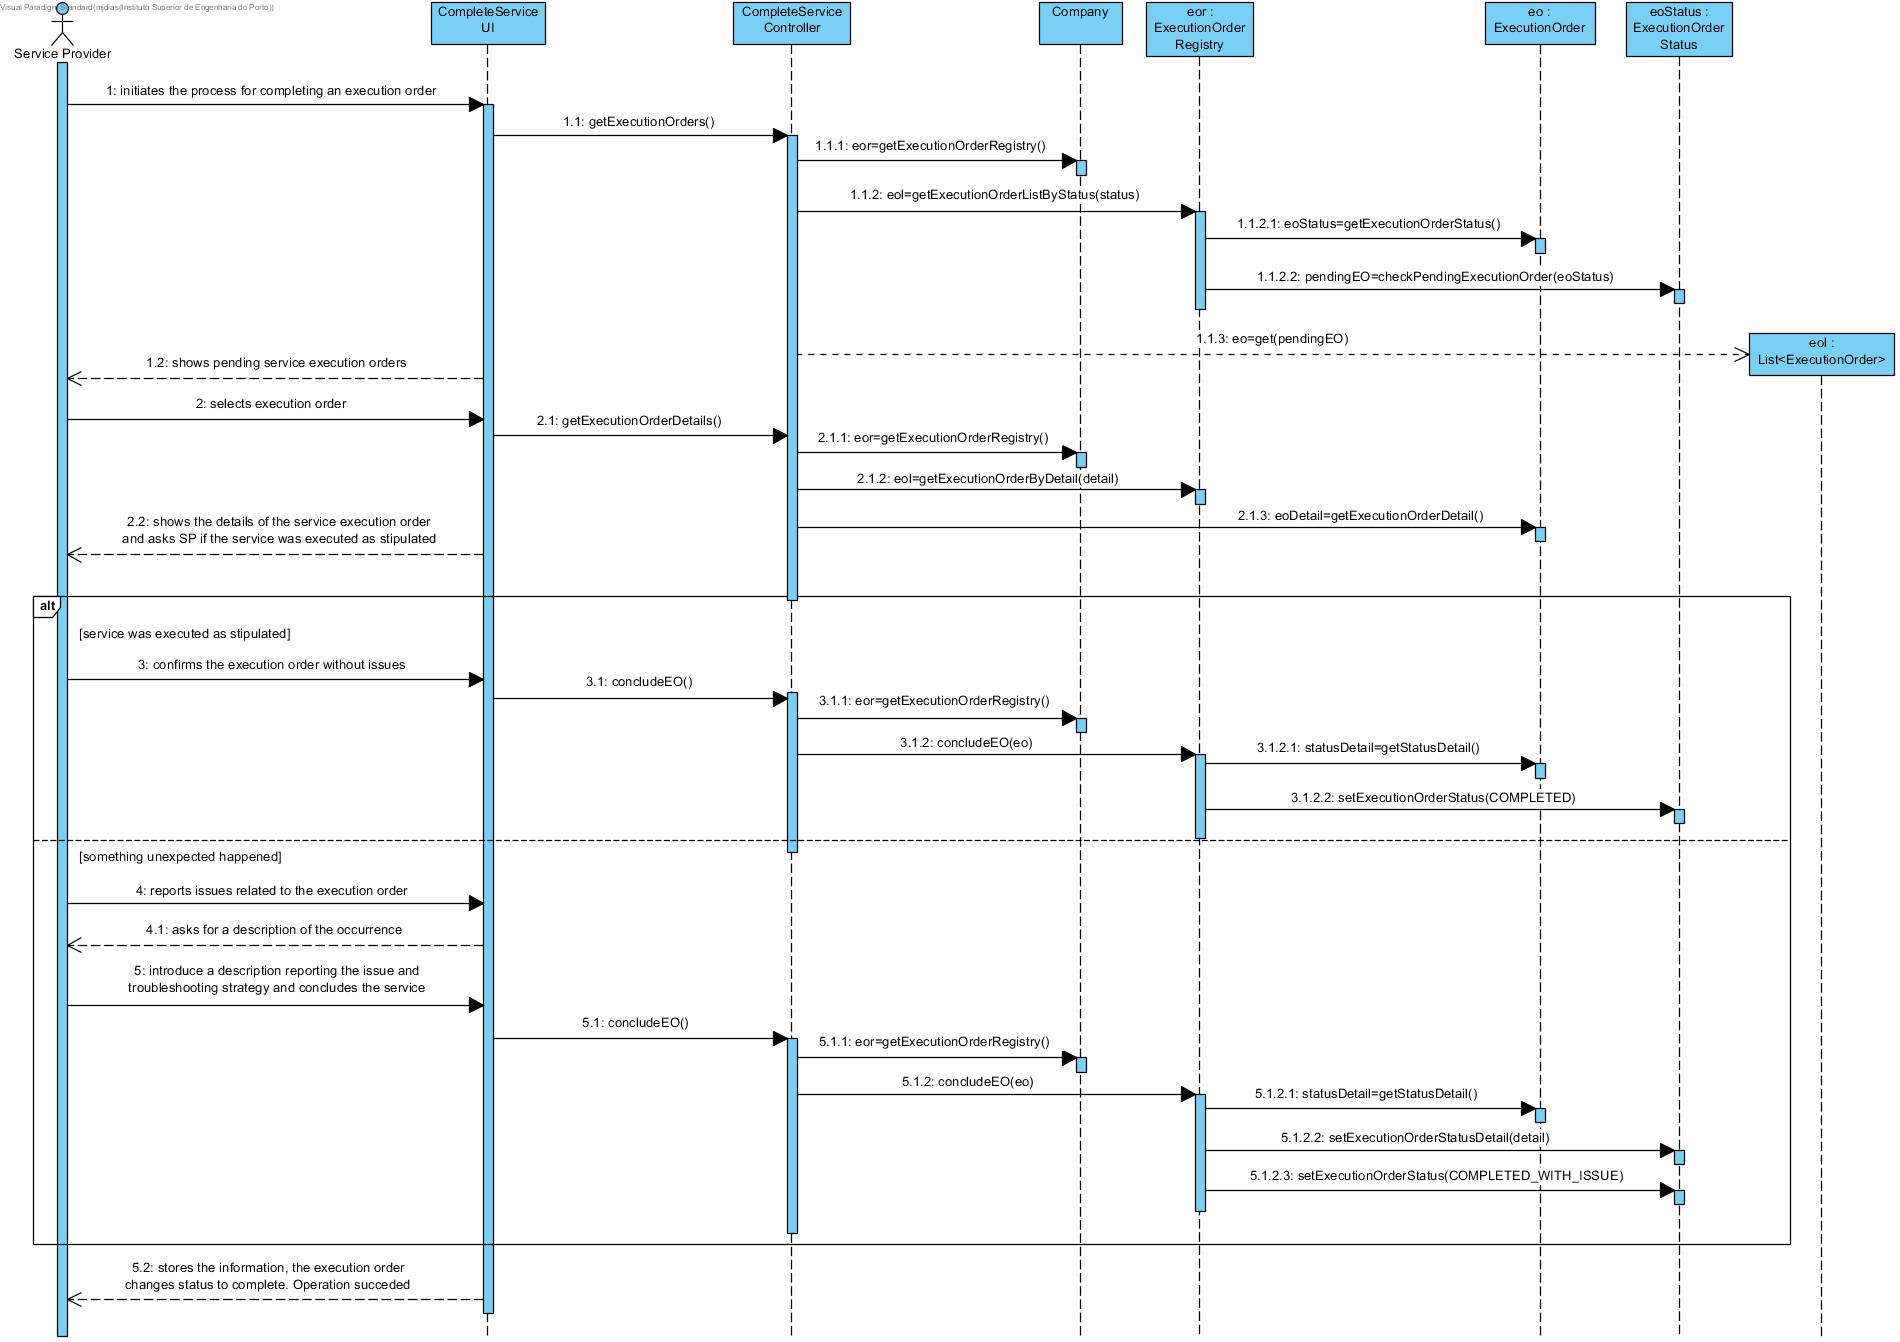
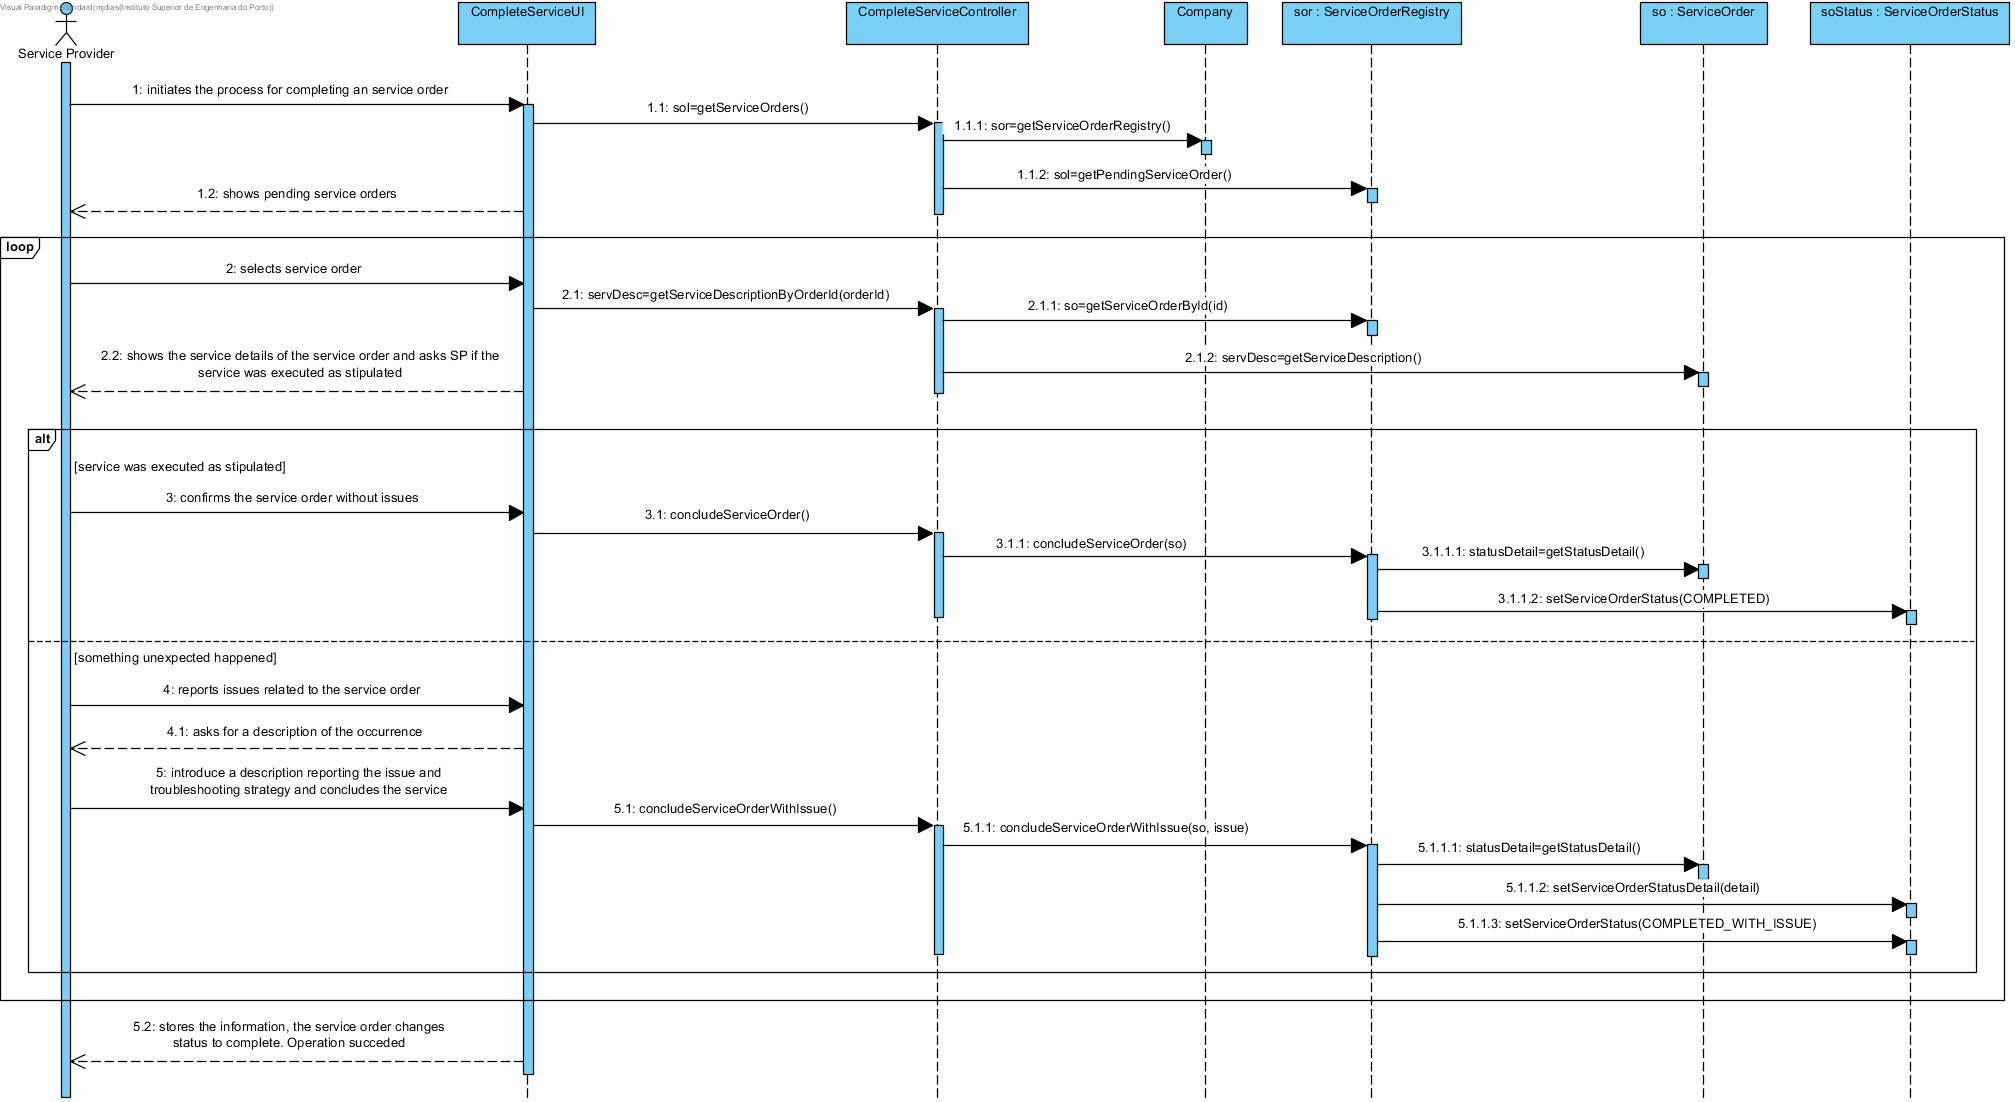
Changed ExecutionOrder for ServiceOrder + add loop in SD and SSD [UC-13][Design+UseCases]

diff --git a/Design/UC13_CompleteService.md b/Design/UC13_CompleteService.md
@@ -3,22 +3,23 @@
 
 | Main Flow                                                                                        | Question: Which Class...                                      | Answer                                       | Justification                                                                                                         |
 |:-------------------------------------------------------------------------------------------------------|:------------------------------------------------------------|:-----------------------------------------------|:---------------------------------------------------------------------------------------------------------------------|
-|1. The Service Provider (SP) initiates the process for completing an execution order.|...interacts with the SP?|CompleteServiceUI|Pure Fabrication|
+|1. The Service Provider (SP) initiates the process for completing a service order.|...interacts with the SP?|CompleteServiceUI|Pure Fabrication|
 ||...coordinates the UC?|CompleteServiceController|Controller|
-|2. The system shows pending service execution orders and requests to select one.|...knows the execution orders?|Company|IE - Information Expert|
-||...has the execution orders?|ExecutionOrderRegistry| HC + LC |
-||...knows the class ExecutionOrderRegistry?|Company| HC + LC |
-||...knows the status of execution orders?|ExecutionOrder|IE|
-||...knows the service description of execution orders?|ExecutionOrder|IE|
+|2. The system shows pending service orders and requests to select one.|...knows the service orders?|Company|IE - Information Expert|
+||...has the service orders?|ServiceOrderRegistry| HC + LC |
+||...knows the class ServiceOrderRegistry?|Company| HC + LC |
+||...knows the status of service orders?|ServiceOrder|IE|
+||...knows the service description of service orders?|ServiceOrder|IE|
 |3. The Service Provider selects one.||||
-|4. The system shows service details of the execution order and asks SP if the service was executed as stipulated.||||
-||...knows the service details in the execution orders?|ExecutionOrder|IE|
+|4. The system shows service details of the service order and asks SP if the service was executed as stipulated.||||
+||...knows the service details in the service orders?|ServiceOrder|IE|
 |5. The SP can confirm or report any occurrence.||||
-|6. The service was executed as stipulated, the SP concludes it.|...is responsible for saving the new status of the execution order?|ExecutionOrderStatus|IE|
+|6. The service was executed as stipulated, the SP concludes it.|...is responsible for saving the new status of the service order?|ServiceOrderStatus|IE|
 |7. Something unexpected happened. The system asks for a description of that occurrence.||||
-|8. The Service Provider introduce a description reporting the issue and troubleshooting strategy and concludes the service.|...is responsible for saving the new status of the execution order?|ExecutionOrderStatus|IE|
-||...is responsible for saving the status detail of the execution order?|ExecutionOrderStatus|IE|
-|9. The system stores the information, the execution order changes status to complete and informs the SP of the success of the operation.||||
+|8. The Service Provider introduce a description reporting the issue and troubleshooting strategy and concludes the service.|...is responsible for saving the new status of the service order?|ServiceOrderStatus|IE|
+||...is responsible for saving the status detail of the service order?|ServiceOrderStatus|IE|
+|9. Steps 3 to 8 are repeated until all the required service orders are concluded.||||
+|10. The system stores the information, the service order changes status to complete and informs the SP of the success of the operation.||||
 
 ## Systematization ##
 
@@ -26,20 +27,20 @@
 
  * Company  
  * ServiceProvider  
- * ExecutionOrder  
- * ExecutionOrderStatus  
+ * ServiceOrder  
+ * ServiceOrderStatus  
 
 
  Other software classes (i.e. Pure Fabrication) identified:  
 
  * CompleteServiceUI  
  * CompleteServiceController  
- * ExecutionOrderRegistry  
+ * ServiceOrderRegistry  
 
 
 ##	Sequence Diagram
 
-![SD_UC13_v2.png](SD_UC13_v2.png)
+![SD_UC13.png](SD_UC13.png)
 
 ##	Class Diagram
 

diff --git a/UseCases/UC13_CompleteService.md b/UseCases/UC13_CompleteService.md
@@ -2,7 +2,7 @@
 
 ## Brief Description
 
-The Service Provider (SP) initiates the process for completing an execution order. The system shows pending service execution orders and requests to select one. The Service Provider selects one. The system shows service details of the execution order and asks SP if the service was executed as stipulated. The SP can confirm or report any occurrence. If the service was executed as stipulated, the SP concludes it. If something unexpected happened, the system asks for a description of that occurrence. The Service Provider introduce a description reporting the issue and troubleshooting strategy and concludes the service. The system stores the information and the execution order changes status to complete.
+The Service Provider (SP) initiates the process for completing a service order. The system shows pending service orders and requests to select one. The Service Provider selects one. The system shows service details of the service order and asks SP if the service was executed as stipulated. The SP can confirm or report any occurrence. If the service was executed as stipulated, the SP concludes it. If something unexpected happened, the system asks for a description of that occurrence. The Service Provider introduce a description reporting the issue and troubleshooting strategy and concludes the service. The Service Provider repeats this task until all the required service orders are concluded. The system stores the information and the service order changes status to complete.
 
 ## SSD
 ![SSD_UC13.png](SSD_UC13.png)
@@ -14,30 +14,31 @@ The Service Provider (SP) initiates the process for completing an execution orde
 Service Provider
 
 ### Stakeholders and purposes
-* **Service Provider:** Service Provider is interested in completing the execution of service orders assigned to him
-* **Company:** Company is interested in knowing the status of the execution orders
+* **Service Provider:** Service Provider is interested in completing the service of service orders assigned to him
+* **Company:** Company is interested in knowing the status of the service orders
 
 ### Preconditions
-Existence of pending execution order
+Existence of pending service order
 
 ### Postconditions
 
 
 ## Main Success scenario (or basic flow)
 1. The Service Provider (SP) initiates the process for completing a service order.
-2. The system shows pending service execution orders and requests to select one.
+2. The system shows pending service orders and requests to select one.
 3. The Service Provider selects one.
-4. The system shows service details of the execution order and asks SP if the service was executed as stipulated.
+4. The system shows service details of the service order and asks SP if the service was executed as stipulated.
 5. The SP can confirm or report any occurrence.
 6. If the service was executed as stipulated, the SP concludes it.
 7. If something unexpected happened. The system asks for a description of that occurrence.
 8. The Service Provider introduce a description reporting the issue and troubleshooting strategy and concludes the service.
-9. The system stores the information, the execution order changes status to complete and informs the SP of the success of the operation.
+9. Steps 3 to 8 are repeated until all the required service orders are concluded.
+10. The system stores the information, the service order changes status to complete and informs the SP of the success of the operation.
 
 ### Exception conditions (alternative flow)
 *a. The SP requests cancellation of the process for completing a service order.
 
-2a. The system does not find any pending execution order.
+2a. The system does not find any pending service order.
 > 1. SP is alerted. The use case ends.*
 
 ### Special requirements
@@ -51,6 +52,6 @@ Existence of pending execution order
 
 ### Open questions
 
-* Does the use case allows to complete more than one execution order at a time?
+* Does the use case allows to complete more than one service order at a time?
 * After the SP reports an issue and respective troubleshooting strategy, how /when it can be applied to solve the issue?
 * How often does this use case occur?
